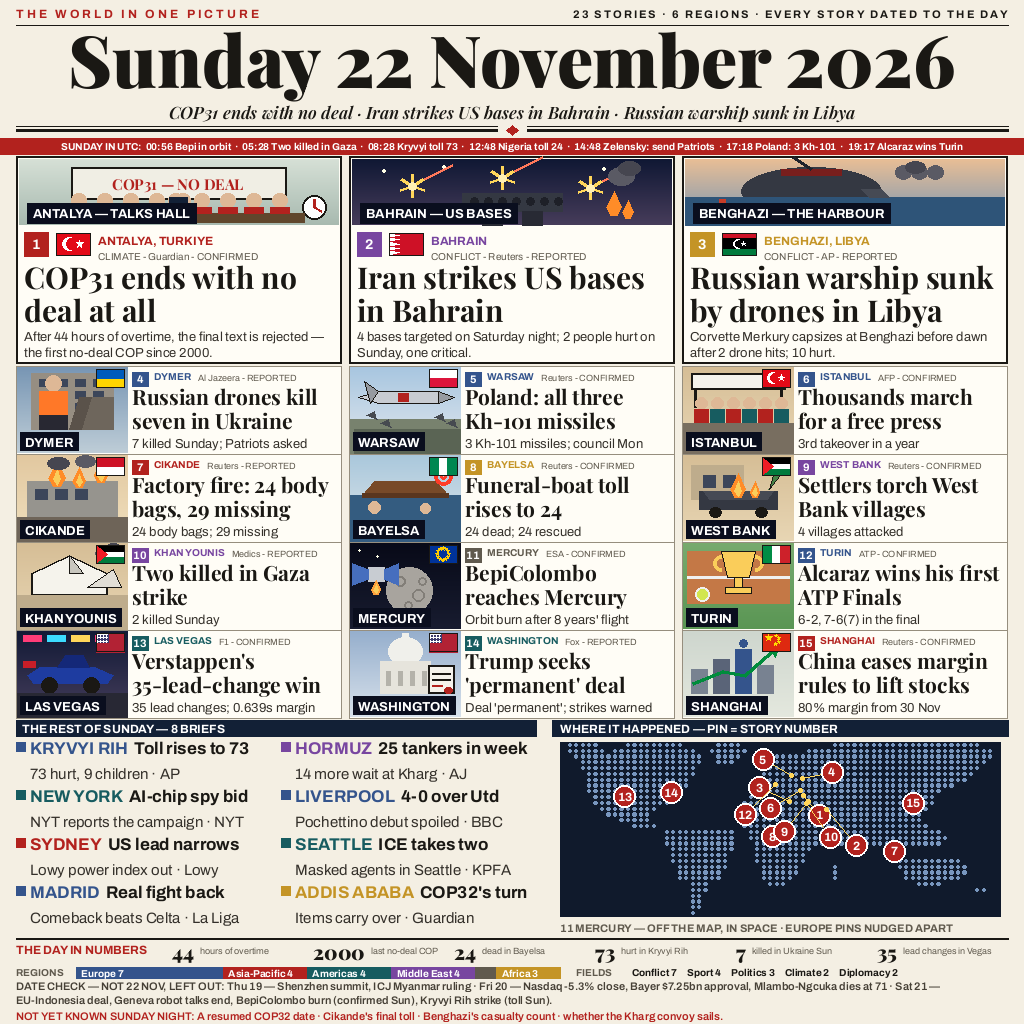
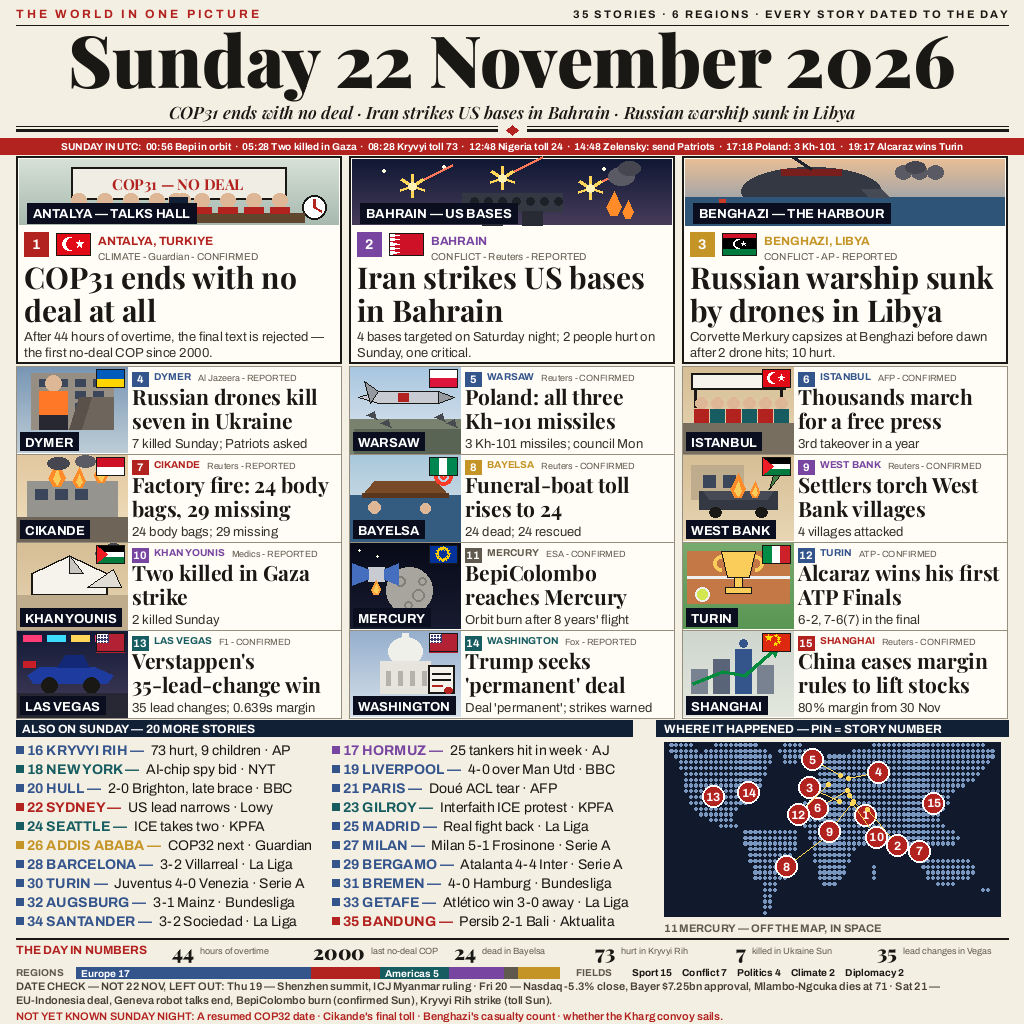
Winners' structure: 35 stories — pictured layer large + 20-line ALSO rail (one-line briefs), map narrowed

Changed region(s): [[0.0, 0.6875, 0.9688, 0.9062], [0.2188, 0.9375, 0.5312, 0.9688], [0.625, 0.9062, 0.875, 0.9688]]

diff --git a/draw.py b/draw.py
@@ -5,10 +5,9 @@ Geometry first (GATES.md, approved by Ahmad 2026-11-22): the grid and
 the type floors were locked before the story count — hero headlines
 >= 30px, card headlines >= 19px, brief headlines >= 16px, brief text
 >= 14px, in-scene labels >= 13px, at most 3 heroes, briefs <= 9 words
-over 2 lines. DENSITY CUT (ni21 jury verdict: density/craft at 300px was
-the only repeated criticism): 23 stories — 3 heroes + 12 cards + 8 briefs —
-with card headlines at 21px, brief headlines at 17px, brief text at 15px,
-all above the floors, and more air between panels.
+over 2 lines. STRUCTURE (from the ni21 top-10 artefacts, counted directly:
+35-43 stories each): 35 stories — 3 heroes + 12 cards pictured large, plus
+a 20-line ALSO rail of one-line briefs at 14px. Card headlines at 21px.
 
 Every important number is read from figures.json (the registry); no
 panel types a figure freehand. The strap counts, the region tally and
@@ -119,27 +118,33 @@ CARDS = [
      + " on 30 November.", "Reuters", "C"),
 ]
 
-# Briefs: (place, region, field, headline, text) — headline + text <= 9 words.
-# 8 briefs after the density cut (Hull, Paris, Gilroy, Milan dropped —
-# duplicate themes/minor sport). Letters were never shrunk to fit.
-BRIEFS = [
-    ("KRYVYI RIH", "EUR", "Conflict", "Toll rises to 73",
-     FIG["kryvyi_injured"] + " hurt, " + FIG["kryvyi_children"]
-     + " children · AP"),
-    ("HORMUZ", "MEA", "Conflict", FIG["hormuz_week"] + " tankers in week",
-     FIG["kharg_tankers"] + " more wait at Kharg · AJ"),
-    ("NEW YORK", "AME", "Tech", "AI-chip spy bid",
-     "NYT reports the campaign · NYT"),
-    ("LIVERPOOL", "EUR", "Sport", "4-0 over Utd",
-     "Pochettino debut spoiled · BBC"),
-    ("SYDNEY", "ASI", "Politics", "US lead narrows",
-     "Lowy power index out · Lowy"),
-    ("SEATTLE", "AME", "Politics", "ICE takes two",
-     "Masked agents in Seattle · KPFA"),
-    ("MADRID", "EUR", "Sport", "Real fight back",
-     "Comeback beats Celta · La Liga"),
-    ("ADDIS ABABA", "AFR", "Climate", "COP32's turn",
-     "Items carry over · Guardian"),
+# ALSO rail: (place, region, field, fact, source) — one line per story,
+# numbered 16-35. This is the top-10 winners' structure from edition 21:
+# density is quarantined in this one-line rail while the pictured layer
+# (heroes + cards) stays large and airy.
+ALSO = [
+    ("KRYVYI RIH", "EUR", "Conflict",
+     FIG["kryvyi_injured"] + " hurt, " + FIG["kryvyi_children"] + " children", "AP"),
+    ("HORMUZ", "MEA", "Conflict",
+     FIG["hormuz_week"] + " tankers hit in week", "AJ"),
+    ("NEW YORK", "AME", "Tech", "AI-chip spy bid", "NYT"),
+    ("LIVERPOOL", "EUR", "Sport", "4-0 over Man Utd", "BBC"),
+    ("HULL", "EUR", "Sport", "2-0 Brighton, late brace", "BBC"),
+    ("PARIS", "EUR", "Sport", "Dou\u00e9 ACL tear", "AFP"),
+    ("SYDNEY", "ASI", "Politics", "US lead narrows", "Lowy"),
+    ("GILROY", "AME", "Politics", "Interfaith ICE protest", "KPFA"),
+    ("SEATTLE", "AME", "Politics", "ICE takes two", "KPFA"),
+    ("MADRID", "EUR", "Sport", "Real fight back", "La Liga"),
+    ("ADDIS ABABA", "AFR", "Climate", "COP32 next", "Guardian"),
+    ("MILAN", "EUR", "Sport", "Milan 5-1 Frosinone", "Serie A"),
+    ("BARCELONA", "EUR", "Sport", "3-2 Villarreal", "La Liga"),
+    ("BERGAMO", "EUR", "Sport", "Atalanta 4-4 Inter", "Serie A"),
+    ("TURIN", "EUR", "Sport", "Juventus 4-0 Venezia", "Serie A"),
+    ("BREMEN", "EUR", "Sport", "4-0 Hamburg", "Bundesliga"),
+    ("AUGSBURG", "EUR", "Sport", "3-1 Mainz", "Bundesliga"),
+    ("GETAFE", "EUR", "Sport", "Atl\u00e9tico win 3-0 away", "La Liga"),
+    ("SANTANDER", "EUR", "Sport", "3-2 Sociedad", "La Liga"),
+    ("BANDUNG", "ASI", "Sport", "Persib 2-1 Bali", "Aktualita"),
 ]
 
 # ------------------------------------------------------------- world map
@@ -183,7 +188,7 @@ LAND_SPANS = [
 PINS = [
     (1, 31, 37, 16, 20), (2, 50, 26, 30, 36), (3, 20, 32, -30, -14),
     (4, 30, 50, 30, -6), (5, 21, 52, -28, -16), (6, 29, 41, -30, 18),
-    (7, 106, -6, 0, 0), (8, 6, 5, 0, 0), (9, 35, 32, -24, 30),
+    (7, 106, -6, 0, 0), (8, 6, 5, -40, 30), (9, 35, 32, -24, 30),
     (10, 34, 31, 24, 34), (12, 8, 45, -30, 30), (13, -115, 36, 0, 0),
     (14, -77, 39, 0, 0), (15, 121, 31, 0, 0),
 ]
@@ -204,7 +209,7 @@ NUMBERS = [(FIG["cop31_overtime"], "hours of overtime"),
 def all_stories():
     out = [(h[1], h[2]) for h in HEROES]
     out += [(c[1], c[2]) for c in CARDS]
-    out += [(b[1], b[2]) for b in BRIEFS]
+    out += [(b[1], b[2]) for b in ALSO]
     return out
 
 
@@ -910,36 +915,36 @@ def main():
         check_h(f"card{i+4} info", CARD_INFO[i], SANS(13), tx, x + chw - 6)
     by = cy + 3 * chh + chh + 2
 
-    # ------------------------------------------- briefs (left) + map (right)
+    # -------------------------------------- ALSO rail (left) + map (right)
     sec_y = by
-    d.rectangle([16, sec_y, 536, sec_y + 16], fill=NAVY)
-    d.text((22, sec_y + 2), f"THE REST OF SUNDAY — {len(BRIEFS)} BRIEFS",
+    d.rectangle([16, sec_y, 632, sec_y + 16], fill=NAVY)
+    d.text((22, sec_y + 2), f"ALSO ON SUNDAY — {len(ALSO)} MORE STORIES",
            font=SANS_B(12), fill=(255, 255, 255))
-    colw = (536 - 16 - 10) // 2
-    for i, (place, region, field, head, text) in enumerate(BRIEFS):
+    colw = (632 - 16 - 16) // 2
+    for i, (place, region, field, fact, src) in enumerate(ALSO):
         col = i % 2
         row = i // 2
-        x = 16 + col * (colw + 10)
-        yy = sec_y + 19 + row * 48
-        d.rectangle([x, yy + 3, x + 9, yy + 12], fill=REGIONS[region][1])
-        d.text((x + 14, yy), place, font=SANS_B(17), fill=REGIONS[region][1])
-        px = x + 14 + d.textlength(place, font=SANS_B(17)) + 6
-        if px + d.textlength(head, font=SANS_B(17)) > x + colw:
-            OVERFLOWS.append(f"brief{i} headline too wide: {place} {head[:30]}")
-        if d.textlength(text, font=SANS(15)) > colw - 14:
-            OVERFLOWS.append(f"brief{i} text too wide: {text[:30]}")
-        d.text((px, yy), head, font=SANS_B(17), fill=INK)
-        d.text((x + 14, yy + 26), text, font=SANS(15), fill=(52, 48, 42))
+        x = 16 + col * (colw + 16)
+        yy = sec_y + 22 + row * 19
+        d.rectangle([x, yy + 4, x + 7, yy + 11], fill=REGIONS[region][1])
+        head = f"{i + 16} {place} — "
+        d.text((x + 11, yy), head, font=SANS_B(14),
+               fill=REGIONS[region][1])
+        px = x + 15 + d.textlength(head, font=SANS_B(14))
+        tail = f"{fact} · {src}"
+        if px + d.textlength(tail, font=SANS(14)) > x + colw:
+            OVERFLOWS.append(f"also{i} too wide: {place} {fact[:30]}")
+        d.text((px, yy), tail, font=SANS(14), fill=INK)
 
     # map panel: pins carry the story numbers of heroes (1-3) and cards (4-15)
-    mx0, my0, mx1 = 552, sec_y, 1008
+    mx0, my0, mx1 = 656, sec_y, 1008
     d.rectangle([mx0, my0, mx1, sec_y + 16], fill=NAVY)
     d.text((mx0 + 8, my0 + 2), "WHERE IT HAPPENED — PIN = STORY NUMBER",
            font=SANS_B(12), fill=(255, 255, 255))
     check_h("map header", "WHERE IT HAPPENED — PIN = STORY NUMBER",
             SANS_B(12), mx0 + 8, mx1 - 8)
-    check_h("briefs header", f"THE REST OF SUNDAY — {len(BRIEFS)} BRIEFS",
-            SANS_B(12), 22, 536 - 8)
+    check_h("also header", f"ALSO ON SUNDAY — {len(ALSO)} MORE STORIES",
+            SANS_B(12), 22, 632 - 8)
     map_y, map_h, map_w = sec_y + 22, 174, mx1 - mx0 - 16
     map_x = mx0 + 8
     d.rectangle([map_x, map_y, map_x + map_w, map_y + map_h], fill=(16, 26, 44))
@@ -964,10 +969,8 @@ def main():
         d.text((px2 - d.textlength(t, font=SANS_B(12)) / 2, py2 - 7), t,
                font=SANS_B(12), fill=(255, 255, 255))
     cap_y = map_y + map_h + 6
-    d.text((mx0 + 8, cap_y), "11 MERCURY — OFF THE MAP, IN SPACE · EUROPE "
-           "PINS NUDGED APART", font=SANS_B(11), fill=MUTE)
-    check_h("map caption", "11 MERCURY — OFF THE MAP, IN SPACE · EUROPE "
-            "PINS NUDGED APART", SANS_B(11), mx0 + 8, mx1 - 8)
+    d.text((mx0 + 8, cap_y), "11 MERCURY — OFF THE MAP, IN SPACE", font=SANS_B(11), fill=MUTE)
+    check_h("map caption", "11 MERCURY — OFF THE MAP, IN SPACE", SANS_B(11), mx0 + 8, mx1 - 8)
     by = sec_y + 218
 
     # ------------------------------------------------- numbers + bars

diff --git a/README.md b/README.md
@@ -5,8 +5,8 @@
 # The World in One Picture — Sunday 22 November 2026
 
 A make.fun `news-image-20261122` entry: one 1024×1024 image summing up
-Sunday 22 November 2026's world news — 3 heroes, 12 cards, 8 briefs,
-23 stories across 6 regions, every story dated to the day, with a date
+Sunday 22 November 2026's world news — 3 heroes, 12 cards and a
+20-line ALSO rail: 35 stories across 6 regions, every story dated to the day, with a date
 check naming what was excluded and a "not yet known" line.
 
 ## Build
@@ -18,14 +18,15 @@ draws its numbers from. `main.py` is the competition entry point: it
 copies `entry.png` to the output directory, standard library only,
 deterministic bytes.
 
-## Density note
+## Structure note
 
-The edition-21 jury verdict praised the system's breadth, attribution
-and date check, but criticised density and small-size craft in almost
-every final call. This edition therefore runs 23 stories instead of 27
-(the brief rail was cut from 12 to 8) and spends the freed space on
-type above the readability floors — card headlines 21px, brief
-headlines 17px, brief text 15px — and more air between panels.
+Edition 21's top 10 were counted directly from their artefacts: 35-43
+stories each, built as 13-15 large pictured stories over a dense
+one-line "ALSO" rail of 21-30 briefs. This entry follows that
+structure: 3 heroes + 12 cards pictured large (card headlines 21px),
+plus a 20-line ALSO ON SUNDAY rail of numbered one-line briefs
+(place, key fact, source) at 14px, the brief-text floor. Density is
+quarantined in the rail; the pictured layer stays airy.
 
 ## License
 
